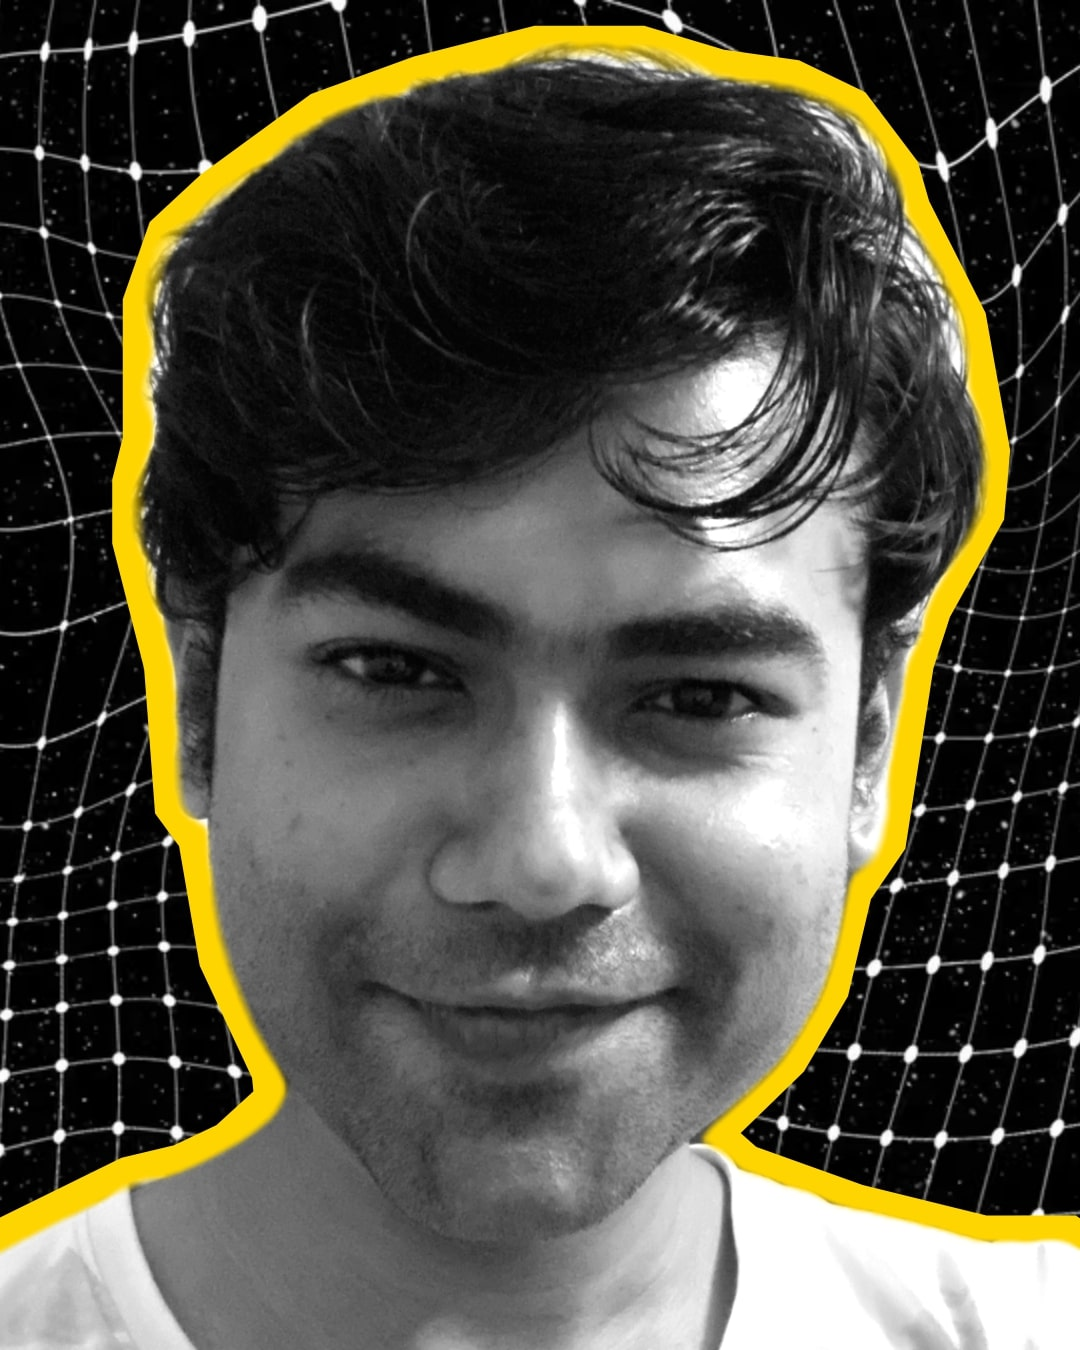
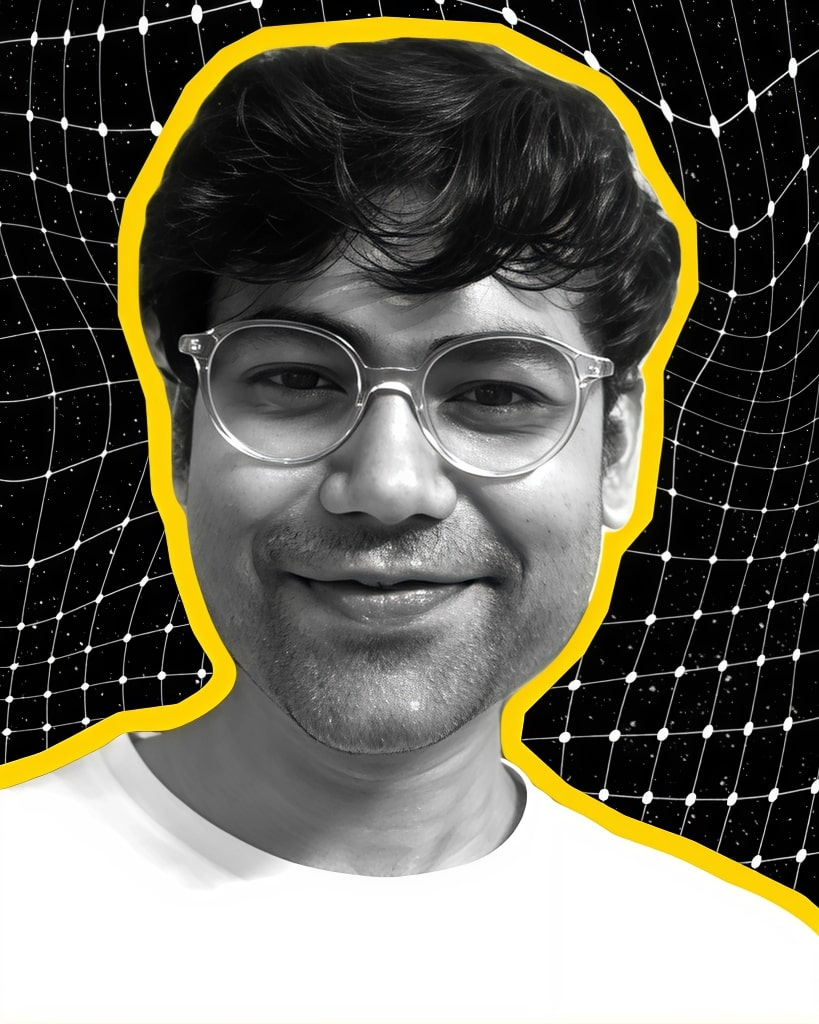
full-loop-major-update

diff --git a/assets/js/greeting.js b/assets/js/greeting.js
@@ -35,10 +35,11 @@
         el.innerText = currentGreeting;
         el.style.opacity = "0";
         el.style.transition = "opacity 1s ease-in-out";
-        el.style.fontSize = "2.5rem";
+        el.style.fontSize = "3rem";
+        el.style.fontStyle = "italic";
         el.style.fontWeight = "bold";
         el.style.color = "#1E90FF"; // Dodger Blue
-        el.style.marginTop = "2rem";
+        el.style.marginTop = "4rem";
         el.style.textAlign = "center";
 
         // Trigger fade-in after rendering

diff --git a/_pages/research.md b/_pages/research.md
@@ -9,16 +9,16 @@ horizontal: false
 ---
 
 
-<span style="font-size: 1.5rem; color: #1E90FF; font-weight: bold;">
+<span style="font-size: 1.6rem; color: #1E90FF; font-weight: bold;">
     Interests:
 </span>
  Microarchitectural
 <a href="https://www.youtube.com/watch?v=rglmJ6Xyj1c" 
-    style="font-size: 1.2rem; color: #42ba3d; font-weight: bold;">
+    style="font-size: 1.3rem; color: #32a852; font-weight: bold;">
     Performance
 </a>, Microarchitectural
 <a href="https://www.youtube.com/watch?v=LIYZemVCgiM" 
-    style="font-size: 1.2rem; color: #FF4450; font-weight: bold;">
+    style="font-size: 1.3rem; color: #FF4450; font-weight: bold;">
     Security
 </a>
 <br>
@@ -32,34 +32,35 @@ horizontal: false
 ### Research Theme
 ---
 <p align="justify">
-Sometimes, even the smartest software engineers and SOTA compilers
+Even the smartest software engineers and SOTA compilers, sometimes
 <a href="https://ocw.mit.edu/courses/6-172-performance-engineering-of-software-systems-fall-2018/resources/mit6_172f18_lec9/">fall short</a>  of performance demands. 
 When every <a href="https://ocw.mit.edu/courses/6-172-performance-engineering-of-software-systems-fall-2018/resources/mit6_172f18_lec1/">software trick</a> has been exhausted, 
-and we still need more; Who brings performance beyond the reach of code? <a href ="" style="font-size: 1rem; color: #FF7F50;">Coops</a> and I certainly do. 
+but you still need more; who will bring performance from beyond the reach of code? <a href ="" style="font-size: 1rem; color: #FF7F50;">Coops</a> and I will. 
 We extract raw performance from the veins of silicon itself. We tap into performance reservoirs that no software has access to. We unlock performance pathways which are abstracted away from even compilers. 
 We reclaim performance at every
 <a href="https://www.intel.com/content/www/us/en/docs/programmable/784383/24-1/cpu-cycles-and-steps.html">CPU tick</a>. Welcome to the world of
 <a href="https://developer.arm.com/documentation/102404/0202/Architecture-and-micro-architecture" style="font-size: 1rem; color: #1E90FF; font-weight: normal;">Microarchitects</a>,
-where nanoseconds are currency, and we make every one count!
+where nanoseconds are currency, and we spend them like elite traders!
 </p>
 
-But it's not just performance we care about
-<br>
-<br>
-
-
-### Research Philosophy
+<p align="justify">
+But modern microarchitectures aren't just blazingly fast, they're also scary smart.
+A look at any modern CPU 
+<a href="https://upload.wikimedia.org/wikipedia/commons/a/a4/Intel_Core_i9-13900K_Labelled_Die_Shot.jpg">die</a> shot reveals a world where
+<a href="https://developers.redhat.com/blog/2016/03/14/superscalar-execution">Superscalar</a> pipelines,
+<a href="https://www.intel.com/content/www/us/en/developer/articles/technical/software-security-guidance/technical-documentation/hardware-behavior-related-to-speculative-execution.html">Speculative Execution</a> units,
+<a href="https://developer.arm.com/documentation/ddi0406/c/System-Level-Architecture/Common-Memory-System-Architecture-Features/Caches-and-branch-predictors/Branch-predictors">Branch Predictors</a>, Cache
+<a href="https://www.intel.com/content/www/us/en/content-details/780991/hardware-llc-prefetch-feature-on-4th-gen-intel-xeon-scalable-processor-codename-sapphire-rapids.html">Prefetchers</a>, and
+<a href="https://safari.ethz.ch/digitaltechnik/spring2023/lib/exe/fetch.php?media=onur-ddca-2023-lecture15-out-of-order-execution-afterlecture.pdf">Out-of-Order</a> execution logic
+work together to squeeze out performance from every possible clock cycle. However, when performance bites, security bleeds! 
+</p>
 ---
-
-
-A core part of my research is philosophy is xyz.
-  - [ISCA](https://www.iscaconf.org/)
-  - [MICRO](https://www.microarch.org/)
-  - [HPCA](https://www.hpca-conf.org/)
-  - [ASPLOS](https://www.asplos-conference.org/)
-  - [USENIX Security](https://www.usenix.org/conference/usenixsecurity25)
-  - [More forums](https://www.cse.iitb.ac.in/~biswa/forums.html)
-But I don’t stop there! My goal is to **influence real-world chips**—from academic prototypes to industry adoption.
+<br>
+<br>
+<div style="text-align: center; font-style: italic;">“If what you are working on is not important and not likely to lead to important things, then why are you working on it?”</div>
+<div style="text-align: center; font-style: italic;">— Richard W. Hamming</div>
+<br>
+<br>
 
 
 

diff --git a/_pages/about.md b/_pages/about.md
@@ -1,8 +1,8 @@
 ---
 layout: about
-title: About
+title: Home
 permalink: /
-subtitle: PG @<a href=""><i><strong>IIEST</strong></i></a>
+subtitle: 
 
 profile:
   align: right
@@ -23,24 +23,20 @@ announcements:
 ---
 
 
-<span id="greeting" style="font-size: 2rem;"></span>    
-<h4>I'm <a href = "https://en.wikipedia.org/wiki/Indra"
-    style="font-size: 1.5rem; color: darkorange; font-weight: bold;">
-    Indra
-    </a> ( Ih n - d r uh ).
-</h4>    
-
-At <a href="" 
-    style="font-size: 1.5rem; color: #32a852; font-weight: bold; font-style: italic;" 
+<span id="greeting" style="font-size: 2.5rem;"></span>
+<h4>Call me <span style="font-size: 2rem; font-style: italic; color: darkorange; font-weight: bold;">
+            Indra<s style="color: #aaa; font-style: italic; opacity: 0.7; text-decoration: line-through;">nil Pal</s></span> 
+</h4> 
+<br>
+I'm a <span style="font-size: 1.25em; font-weight: bold;">PhD</span> **@**<a  href = "https://en.wikipedia.org/wiki/Indra"
+    style="font-size: 1.25rem; color: #32a852; font-weight: bold; font-style: italic;"
     onmouseover="this.style.color='#40E0D0';" 
     onmouseout="this.style.color='#32a852';">
-    LABX
-</a>,
-<a href ="" style="font-size: 1.25rem; color: #FF7F50; font-weight: bold">
-    Coops
-</a> 
-and I, visit worlds where a few *nanoseconds*    
-might feel like *ETERNITY*. Sounds Fascinating? [Click](\research\) to know more. 
+    FERMIO
+</a> Lab, <a href ="" style="font-size: 1.2rem; color: #ffb347; font-weight: bold; font-style: italic;">ABCD</a>.   
+With <a href ="" style="font-size: 1.2rem; color: #FF7F50; font-weight: normal">Coops</a> guiding us, we dive beneath abstraction layers so deep,    
+even the compiler needs therapy. Sounds crazy? [Click]() to see more.  ¯\\\_(ツ)_/¯
 
-<br><br>
-*Always open to collaborating on cool projects. Let's [talk](mailto:mail.indranilpal@gmail.com)!*
+<br>
+<br>
+*Reimagining what’s possible? Let's [talk](mailto:mail.indranilpal@gmail.com)!*

diff --git a/_pages/news.md b/_pages/news.md
@@ -1,6 +1,6 @@
 ---
 layout: page
-title: news
+title: What's new?
 permalink: /news/
 ---
 
